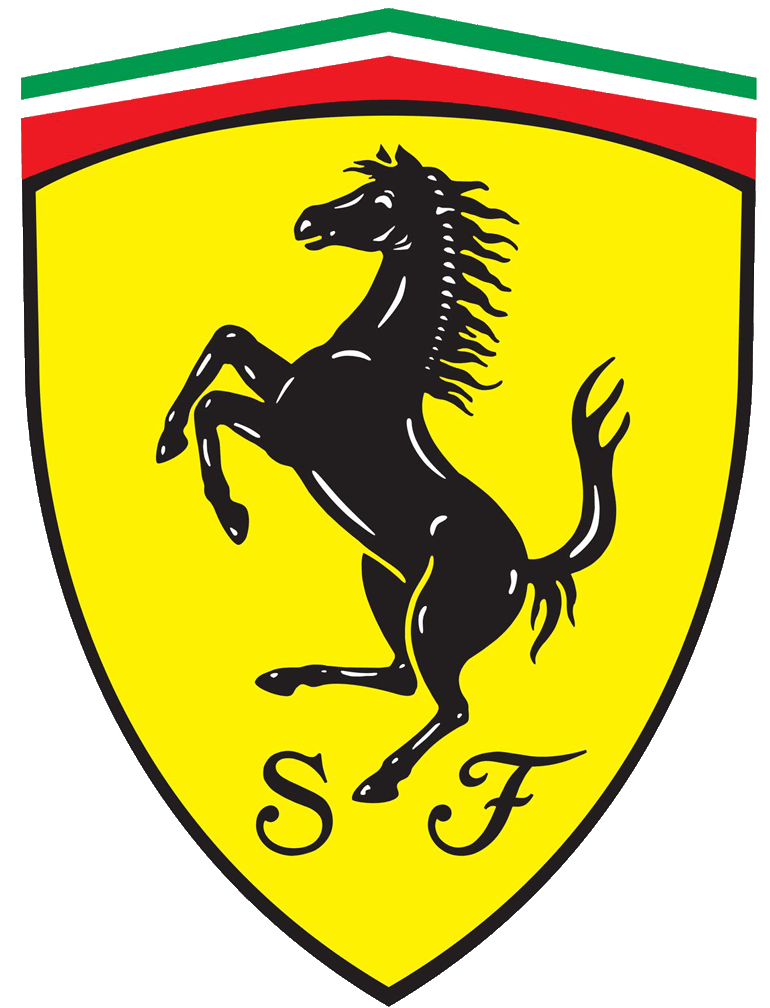
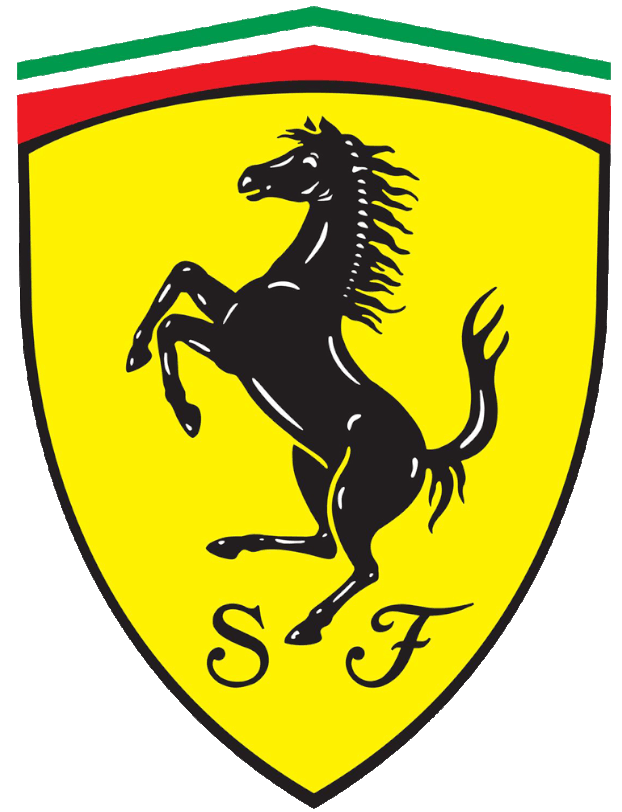
minor changes

diff --git a/src/home/Car.js b/src/home/Car.js
@@ -102,15 +102,6 @@ const styles = StyleSheet.create({
         resizeMode: 'cover',
         top: heightToDp(6.3)
     },
-    brandCard: {
-        backgroundColor: '#272B50',
-        width: widthToDp(42),
-        height: heightToDp(34),
-        marginRight: widthToDp(5),
-        marginTop: heightToDp(3),
-        borderRadius: 10,
-        justifyContent: 'center',
-    },
     audi: {
         resizeMode: 'cover',
         height: widthToDp(32),

diff --git a/src/home/components/TopList.js b/src/home/components/TopList.js
@@ -75,8 +75,8 @@ const styles = StyleSheet.create({
     },
     logo: {
         resizeMode: 'center',
-        height: widthToDp(19),
-        width: widthToDp(19),
+        height: widthToDp(23),
+        width: widthToDp(17),
         alignSelf: 'center',
     },
     brandCardText: {
